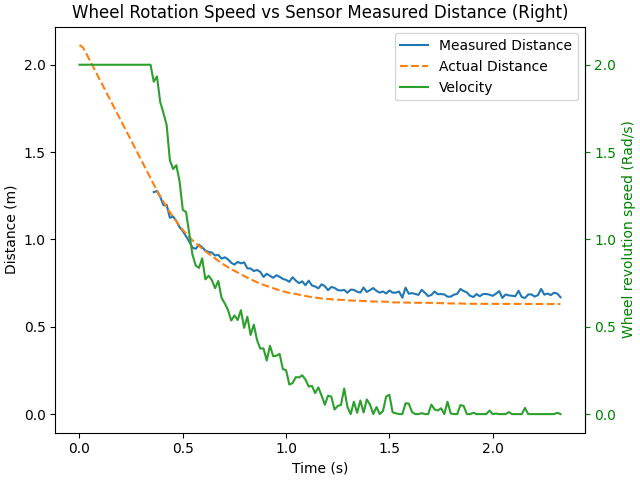
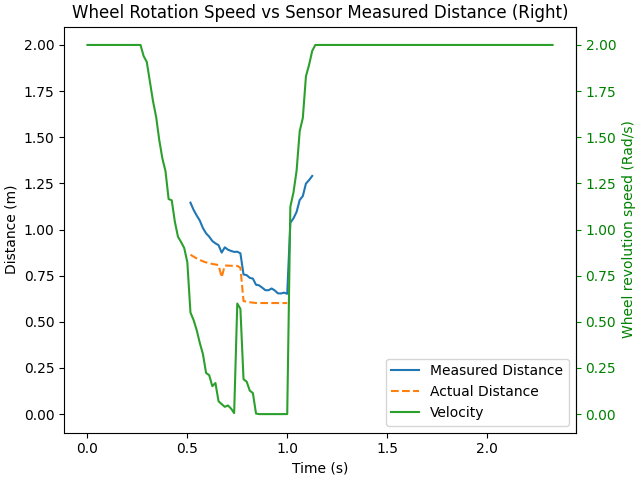
added incomplete sensor signal smoothing

diff --git a/controllers/trackpad_controller/trackpad_controller.py b/controllers/trackpad_controller/trackpad_controller.py
@@ -3,7 +3,6 @@
 from controller import Robot
 import numpy as np
 import matplotlib.pyplot as plt
-
 #The range of sensor when it is most reliable due to the inherent noise
 DISTANCE_UPPER_BOUND = 1.3
 DISTANCE_LOWER_BOUND = 0.7
@@ -31,6 +30,11 @@ distanceFromFrontLeft.enable(TIME_STEP)
 distanceFromFrontRight = robot.getDevice("real distance from Front Right")
 distanceFromFrontRight.enable(TIME_STEP)
 
+
+#Queue for averaging sensor data
+queue = []
+counter = 0
+
 #Data Collection Variables
 testingArray1 = np.zeros((150, 2))
 testingArray2 = np.zeros((150, 2))
@@ -55,36 +59,48 @@ mouse = robot.getMouse()
 mouse.enable(TIME_STEP)
 
 def trackpad(sensorData):
-    mousestate = mouse.getState()
+    y = 2
+    x = 1
+    #                          ---REIMPLEMENT THIS LATER---
+    #mousestate = mouse.getState() 
    
-    x = mousestate.u 
-    y = -mousestate.v
+    #x = mousestate.u 
+    #y = -mousestate.v
+    
+    #                                --- END --- 
+    
     leftspeed = 0.0
     rightspeed = 0.0
 
     if y >= -x and y >= x - 1:
         #Go forward
         #Checking if sensors have detected obstacles and adjusting the max forward speed
-        leftspeed = 2.0
-        rightspeed = 2.0
+        mindist = min(sensorData[0], sensorData[1])
         #Checking the Left sensor facing forwards for if there is an obstacle in the range
-        if (sensorData[0] < DISTANCE_UPPER_BOUND and sensorData[0] > DISTANCE_LOWER_BOUND):
-            leftspeed = 2.0 * ((sensorData[0] - DISTANCE_LOWER_BOUND)/RANGE)
-            rightspeed = 2.0 * ((sensorData[0] - DISTANCE_LOWER_BOUND)/RANGE)
+        if (mindist < DISTANCE_UPPER_BOUND and mindist > DISTANCE_LOWER_BOUND):
+            leftspeed = 2.0 * ((mindist - DISTANCE_LOWER_BOUND)/RANGE)
+            rightspeed = 2.0 * ((mindist - DISTANCE_LOWER_BOUND)/RANGE)
         #If the sensor value is lower then the lower bound,
         #Wheelchair cannot move forward, only any other direction 
-        elif (sensorData[0] < DISTANCE_LOWER_BOUND):
+        elif (mindist <= DISTANCE_LOWER_BOUND):
+            print('YOYOYOYOYO1')
             leftspeed = 0.0
             rightspeed = 0.0
+        else:
+            leftspeed = 2.0
+            rightspeed = 2.0
+            
+        """
         #Checking the Right sensor facing forward for if there is an obstacle in the range
-        elif (sensorData[1] < DISTANCE_UPPER_BOUND and sensorData[1] > DISTANCE_LOWER_BOUND):
+        if (sensorData[1] < DISTANCE_UPPER_BOUND and sensorData[1] > DISTANCE_LOWER_BOUND):
             leftspeed = 2.0 * ((sensorData[1] - DISTANCE_LOWER_BOUND)/RANGE)
             rightspeed = 2.0 * ((sensorData[1] - DISTANCE_LOWER_BOUND)/RANGE)
         elif (sensorData[1] < DISTANCE_LOWER_BOUND):
+            print('YOYOYOYOYO2')
             leftspeed = 0.0
             rightspeed = 0.0
         print("forward")
-     
+        """
     if y < -x and y < x - 1:
         #Go back
         leftspeed = -2.0
@@ -131,11 +147,30 @@ def setActuators(speeds):
     wheels[1].setVelocity(speeds[1])
 
 while robot.step(TIME_STEP) != -1:
-    leftspeed = 0
-    rightspeed = 0  
+    counter += 1
+    print(counter)
     sensorData = getSensorData()
-    speeds = trackpad(sensorData)
-    setActuators(speeds)
+    if len(queue) < 5: 
+        leftspeed = 0
+        rightspeed = 0  
+
+        queue.append(sensorData)
+        speeds = trackpad(sensorData)
+        setActuators(speeds)
+    
+    else:
+        averages = np.zeros(len(queue[0]))
+        for i in range(len(averages)):
+            for j in range(len(queue)):
+                averages[i] += queue[j][i]
+            averages[i] = averages[i] / len(queue)
+            sensorData[i] = (sensorData[i] * 0.5) + (averages[i] * 0.5)
+            
+        speeds = trackpad(sensorData)
+        setActuators(speeds)
+        queue.pop(0)
+        queue.append(sensorData)
+    
 
     #print("Left Wheel Velocity: " + str(wheels[0].getVelocity()))
     #print("Rigth Wheel Velocity: " + str(wheels[1].getVelocity()))
@@ -143,12 +178,12 @@ while robot.step(TIME_STEP) != -1:
     #print("Right Wheel Acceleration: " + str(wheels[1].getAcceleration()))
 
     #### Data Collection for first 300 ticks and Plot making ####
-    """
-    print("Left Sensor Value: " + str(sensorData[0]))
-    print("Actual Front Left Sensor Distance: " + str(distanceFromFrontLeft.getValue()))
+    
+    #print("Left Sensor Value: " + str(sensorData[0]))
+    #print("Actual Front Left Sensor Distance: " + str(distanceFromFrontLeft.getValue()))
 
-    print("Right Sensor Value: " + str(sensorData[1]))
-    print("Actual Front Right Sensor Distance: " + str(distanceFromFrontRight.getValue()))
+    #print("Right Sensor Value: " + str(sensorData[1]))
+    #print("Actual Front Right Sensor Distance: " + str(distanceFromFrontRight.getValue()))
 
     arrange = np.arange(0, 150, dtype=np.float32)
     j = 1
@@ -218,7 +253,7 @@ while robot.step(TIME_STEP) != -1:
         ax.legend()
         plt.savefig("Figure_2.png")
         plt.show()
-
-    """
+        
+    
     
     
